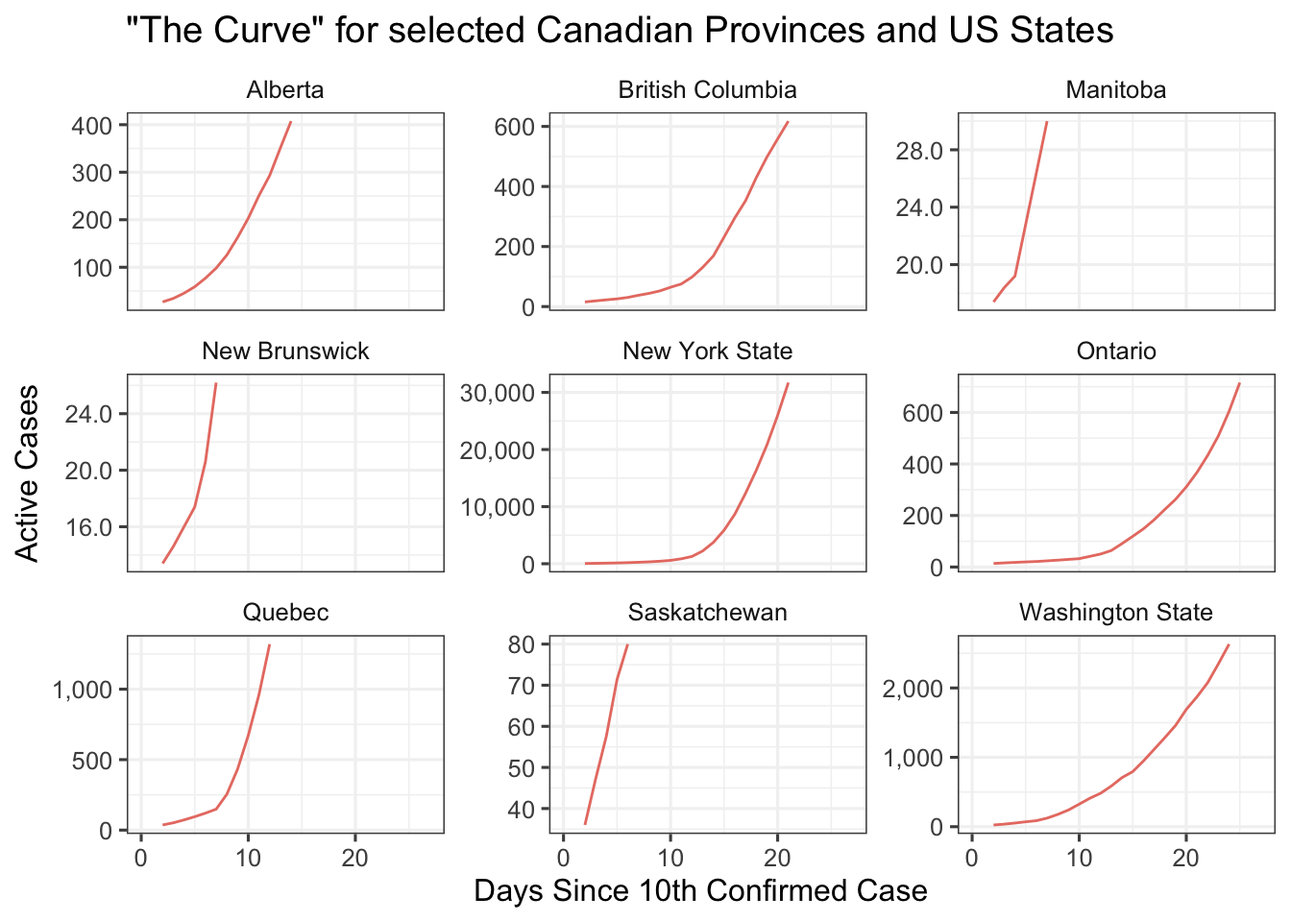
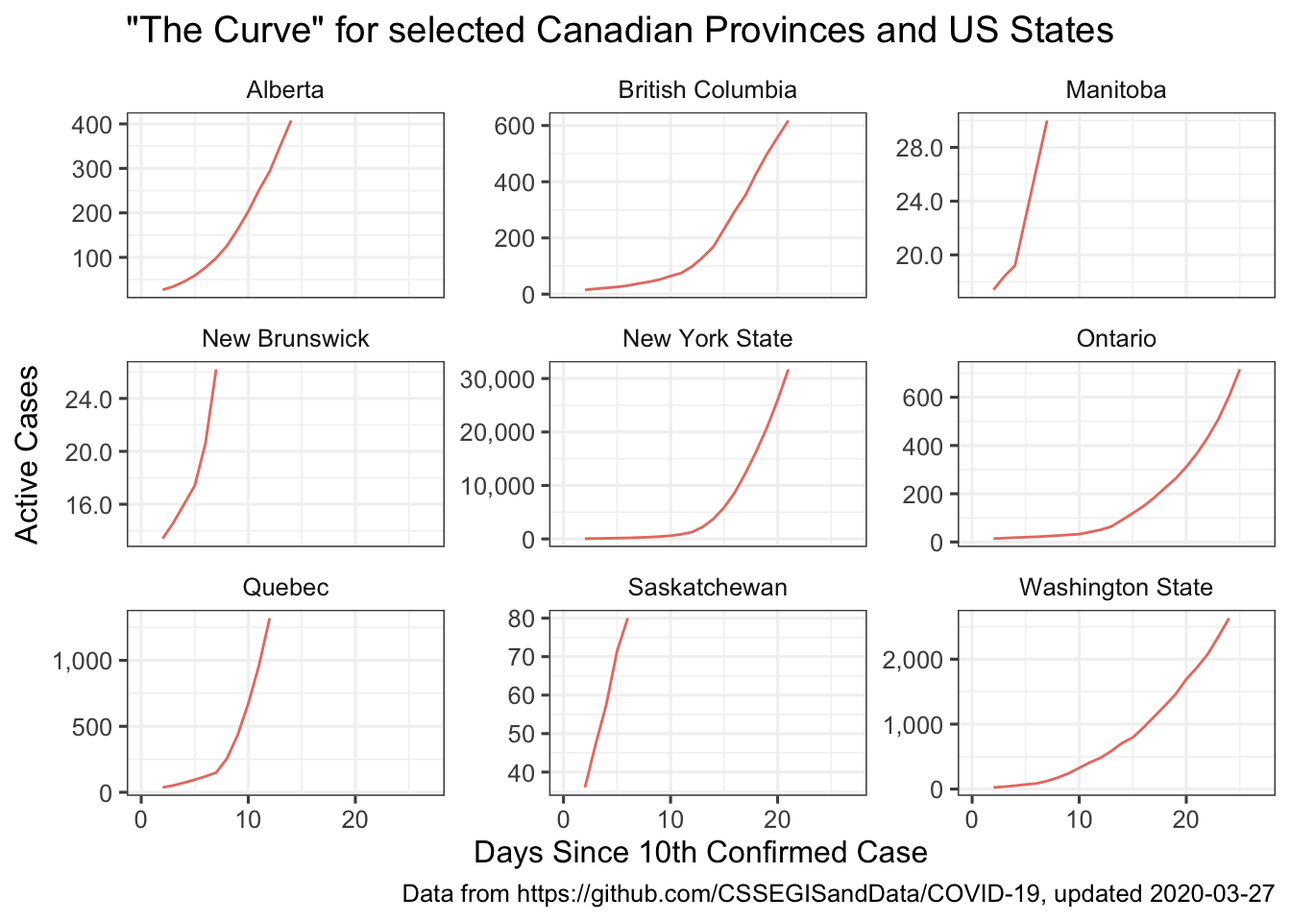
add captions to plots

diff --git a/static/post/2020-03-27-tracking-covid-19-in-canada_files/figure-html/widgets/widget_unnamed-chunk-8.html b/static/post/2020-03-27-tracking-covid-19-in-canada_files/figure-html/widgets/widget_unnamed-chunk-8.html
@@ -24,12 +24,12 @@
 </head>
 <body>
 <div id="htmlwidget_container">
-  <div id="htmlwidget-a81cc3dc8b0ffed4b9d1" style="width:100%;height:500px;" class="datatables html-widget"></div>
+  <div id="htmlwidget-800f1ae64680802ff295" style="width:100%;height:500px;" class="datatables html-widget"></div>
   <script>HTMLWidgets.pymChild = new pym.Child();HTMLWidgets.addPostRenderHandler(function(){
                                 setTimeout(function(){HTMLWidgets.pymChild.sendHeight();},100);
                             });</script>
 </div>
-<script type="application/json" data-for="htmlwidget-a81cc3dc8b0ffed4b9d1">{"x":{"filter":"none","extensions":["Buttons"],"data":[["1","2","3","4","5","6","7","8","9","10","11","12","13","14","15","16","17","18","19","20","21","22","23","24","25","26","27","28","29","30","31","32","33","34","35","36","37","38","39","40","41","42","43","44","45","46","47","48","49","50","51","52","53","54","55","56","57","58","59","60","61","62","63","64","65","66","67","68","69","70","71","72","73","74","75","76","77","78","79","80","81","82","83","84","85","86","87","88","89","90","91","92","93","94","95","96","97","98","99","100","101","102","103","104","105","106","107","108","109","110","111","112","113","114","115","116","117","118","119","120","121","122","123","124","125","126","127","128","129","130","131","132","133","134","135","136","137","138","139","140","141","142","143","144","145","146","147","148","149","150","151","152","153","154","155","156","157","158","159","160","161","162","163","164","165","166","167","168","169","170","171","172","173","174","175","176","177","178","179","180","181","182","183","184","185","186","187","188","189","190","191","192","193","194","195","196","197","198","199","200","201","202","203","204","205","206","207","208","209","210","211","212","213","214","215","216","217","218","219","220","221","222","223","224","225","226","227","228","229","230","231","232","233","234","235","236","237","238","239","240","241","242","243","244","245","246","247","248","249","250","251","252","253","254","255","256","257","258","259","260","261","262","263","264","265","266","267","268","269","270","271","272","273","274","275","276","277","278","279","280","281","282","283","284","285","286","287","288","289","290","291","292","293","294","295","296","297","298","299","300","301","302","303","304","305","306","307","308","309","310","311","312","313","314","315","316","317","318","319","320","321","322","323","324","325","326","327","328","329","330","331","332","333","334","335","336","337","338","339","340","341","342","343","344"],["2020-03-06","2020-03-07","2020-03-08","2020-03-09","2020-03-10","2020-03-11","2020-03-12","2020-03-13","2020-03-14","2020-03-15","2020-03-16","2020-03-17","2020-03-18","2020-03-19","2020-03-20","2020-03-21","2020-03-22","2020-03-23","2020-03-24","2020-03-25","2020-03-26","2020-03-27","2020-01-28","2020-01-29","2020-01-30","2020-01-31","2020-02-01","2020-02-02","2020-02-03","2020-02-04","2020-02-05","2020-02-06","2020-02-07","2020-02-08","2020-02-09","2020-02-10","2020-02-11","2020-02-12","2020-02-13","2020-02-14","2020-02-15","2020-02-16","2020-02-17","2020-02-18","2020-02-19","2020-02-20","2020-02-21","2020-02-22","2020-02-23","2020-02-24","2020-02-25","2020-02-26","2020-02-27","2020-02-28","2020-02-29","2020-03-01","2020-03-02","2020-03-03","2020-03-04","2020-03-05","2020-03-06","2020-03-07","2020-03-08","2020-03-09","2020-03-10","2020-03-11","2020-03-12","2020-03-13","2020-03-14","2020-03-15","2020-03-16","2020-03-17","2020-03-18","2020-03-19","2020-03-20","2020-03-21","2020-03-22","2020-03-23","2020-03-24","2020-03-25","2020-03-26","2020-03-27","2020-03-13","2020-03-14","2020-03-15","2020-03-16","2020-03-17","2020-03-18","2020-03-19","2020-03-20","2020-03-21","2020-03-22","2020-03-23","2020-03-24","2020-03-25","2020-03-26","2020-03-27","2020-03-11","2020-03-12","2020-03-13","2020-03-14","2020-03-15","2020-03-16","2020-03-17","2020-03-18","2020-03-19","2020-03-20","2020-03-21","2020-03-22","2020-03-23","2020-03-24","2020-03-25","2020-03-26","2020-03-27","2020-03-15","2020-03-16","2020-03-17","2020-03-18","2020-03-19","2020-03-20","2020-03-21","2020-03-22","2020-03-23","2020-03-24","2020-03-25","2020-03-26","2020-03-27","2020-03-21","2020-03-22","2020-03-26","2020-03-27","2020-01-26","2020-01-27","2020-01-28","2020-01-29","2020-01-30","2020-01-31","2020-02-01","2020-02-02","2020-02-03","2020-02-04","2020-02-05","2020-02-06","2020-02-07","2020-02-08","2020-02-09","2020-02-10","2020-02-11","2020-02-12","2020-02-13","2020-02-14","2020-02-15","2020-02-16","2020-02-17","2020-02-18","2020-02-19","2020-02-20","2020-02-21","2020-02-22","2020-02-23","2020-02-24","2020-02-25","2020-02-26","2020-02-27","2020-02-28","2020-02-29","2020-03-01","2020-03-02","2020-03-03","2020-03-04","2020-03-05","2020-03-06","2020-03-07","2020-03-08","2020-03-09","2020-03-10","2020-03-11","2020-03-12","2020-03-13","2020-03-14","2020-03-15","2020-03-16","2020-03-17","2020-03-18","2020-03-19","2020-03-20","2020-03-21","2020-03-22","2020-03-23","2020-03-24","2020-03-25","2020-03-26","2020-03-27","2020-03-15","2020-03-16","2020-03-17","2020-03-18","2020-03-19","2020-03-20","2020-03-21","2020-03-22","2020-03-23","2020-03-24","2020-03-25","2020-03-26","2020-03-27","2020-02-28","2020-02-29","2020-03-01","2020-03-02","2020-03-03","2020-03-04","2020-03-05","2020-03-06","2020-03-07","2020-03-08","2020-03-09","2020-03-10","2020-03-11","2020-03-12","2020-03-13","2020-03-14","2020-03-15","2020-03-16","2020-03-17","2020-03-18","2020-03-19","2020-03-20","2020-03-21","2020-03-22","2020-03-23","2020-03-24","2020-03-25","2020-03-26","2020-03-27","2020-03-13","2020-03-14","2020-03-15","2020-03-16","2020-03-17","2020-03-18","2020-03-19","2020-03-20","2020-03-21","2020-03-22","2020-03-23","2020-03-24","2020-03-25","2020-03-26","2020-03-27","2020-03-26","2020-03-27","2020-03-02","2020-03-03","2020-03-04","2020-03-05","2020-03-06","2020-03-07","2020-03-08","2020-03-09","2020-03-10","2020-03-11","2020-03-12","2020-03-13","2020-03-14","2020-03-15","2020-03-16","2020-03-17","2020-03-18","2020-03-19","2020-03-20","2020-03-21","2020-03-22","2020-03-23","2020-03-24","2020-03-25","2020-03-26","2020-03-27","2020-01-22","2020-01-23","2020-01-24","2020-01-25","2020-01-26","2020-01-27","2020-01-28","2020-01-29","2020-01-30","2020-01-31","2020-02-01","2020-02-02","2020-02-03","2020-02-04","2020-02-05","2020-02-06","2020-02-07","2020-02-08","2020-02-09","2020-02-10","2020-02-11","2020-02-12","2020-02-13","2020-02-14","2020-02-15","2020-02-16","2020-02-17","2020-02-18","2020-02-19","2020-02-20","2020-02-21","2020-02-22","2020-02-23","2020-02-24","2020-02-25","2020-02-26","2020-02-27","2020-02-28","2020-02-29","2020-03-01","2020-03-02","2020-03-03","2020-03-04","2020-03-05","2020-03-06","2020-03-07","2020-03-08","2020-03-09","2020-03-10","2020-03-11","2020-03-12","2020-03-13","2020-03-14","2020-03-15","2020-03-16","2020-03-17","2020-03-18","2020-03-19","2020-03-20","2020-03-21","2020-03-22","2020-03-23","2020-03-24","2020-03-25","2020-03-26","2020-03-27"],["Canada","Canada","Canada","Canada","Canada","Canada","Canada","Canada","Canada","Canada","Canada","Canada","Canada","Canada","Canada","Canada","Canada","Canada","Canada","Canada","Canada","Canada","Canada","Canada","Canada","Canada","Canada","Canada","Canada","Canada","Canada","Canada","Canada","Canada","Canada","Canada","Canada","Canada","Canada","Canada","Canada","Canada","Canada","Canada","Canada","Canada","Canada","Canada","Canada","Canada","Canada","Canada","Canada","Canada","Canada","Canada","Canada","Canada","Canada","Canada","Canada","Canada","Canada","Canada","Canada","Canada","Canada","Canada","Canada","Canada","Canada","Canada","Canada","Canada","Canada","Canada","Canada","Canada","Canada","Canada","Canada","Canada","Canada","Canada","Canada","Canada","Canada","Canada","Canada","Canada","Canada","Canada","Canada","Canada","Canada","Canada","Canada","Canada","Canada","Canada","Canada","Canada","Canada","Canada","Canada","Canada","Canada","Canada","Canada","Canada","Canada","Canada","Canada","Canada","Canada","Canada","Canada","Canada","Canada","Canada","Canada","Canada","Canada","Canada","Canada","Canada","Canada","Canada","Canada","Canada","Canada","Canada","Canada","Canada","Canada","Canada","Canada","Canada","Canada","Canada","Canada","Canada","Canada","Canada","Canada","Canada","Canada","Canada","Canada","Canada","Canada","Canada","Canada","Canada","Canada","Canada","Canada","Canada","Canada","Canada","Canada","Canada","Canada","Canada","Canada","Canada","Canada","Canada","Canada","Canada","Canada","Canada","Canada","Canada","Canada","Canada","Canada","Canada","Canada","Canada","Canada","Canada","Canada","Canada","Canada","Canada","Canada","Canada","Canada","Canada","Canada","Canada","Canada","Canada","Canada","Canada","Canada","Canada","Canada","Canada","Canada","Canada","Canada","Canada","Canada","Canada","Canada","Canada","Canada","Canada","Canada","Canada","Canada","Canada","Canada","Canada","Canada","Canada","Canada","Canada","Canada","Canada","Canada","Canada","Canada","Canada","Canada","Canada","Canada","Canada","Canada","Canada","Canada","Canada","Canada","Canada","Canada","Canada","Canada","Canada","Canada","Canada","Canada","Canada","Canada","Canada","Canada","Canada","Canada","Canada","Canada","Canada","US","US","US","US","US","US","US","US","US","US","US","US","US","US","US","US","US","US","US","US","US","US","US","US","US","US","US","US","US","US","US","US","US","US","US","US","US","US","US","US","US","US","US","US","US","US","US","US","US","US","US","US","US","US","US","US","US","US","US","US","US","US","US","US","US","US","US","US","US","US","US","US","US","US","US","US","US","US","US","US","US","US","US","US","US","US","US","US","US","US","US","US"],["Alberta","Alberta","Alberta","Alberta","Alberta","Alberta","Alberta","Alberta","Alberta","Alberta","Alberta","Alberta","Alberta","Alberta","Alberta","Alberta","Alberta","Alberta","Alberta","Alberta","Alberta","Alberta","British Columbia","British Columbia","British Columbia","British Columbia","British Columbia","British Columbia","British Columbia","British Columbia","British Columbia","British Columbia","British Columbia","British Columbia","British Columbia","British Columbia","British Columbia","British Columbia","British Columbia","British Columbia","British Columbia","British Columbia","British Columbia","British Columbia","British Columbia","British Columbia","British Columbia","British Columbia","British Columbia","British Columbia","British Columbia","British Columbia","British Columbia","British Columbia","British Columbia","British Columbia","British Columbia","British Columbia","British Columbia","British Columbia","British Columbia","British Columbia","British Columbia","British Columbia","British Columbia","British Columbia","British Columbia","British Columbia","British Columbia","British Columbia","British Columbia","British Columbia","British Columbia","British Columbia","British Columbia","British Columbia","British Columbia","British Columbia","British Columbia","British Columbia","British Columbia","British Columbia","Manitoba","Manitoba","Manitoba","Manitoba","Manitoba","Manitoba","Manitoba","Manitoba","Manitoba","Manitoba","Manitoba","Manitoba","Manitoba","Manitoba","Manitoba","New Brunswick","New Brunswick","New Brunswick","New Brunswick","New Brunswick","New Brunswick","New Brunswick","New Brunswick","New Brunswick","New Brunswick","New Brunswick","New Brunswick","New Brunswick","New Brunswick","New Brunswick","New Brunswick","New Brunswick","Newfoundland","Newfoundland","Newfoundland","Newfoundland","Newfoundland","Newfoundland","Newfoundland","Newfoundland","Newfoundland","Newfoundland","Newfoundland","Newfoundland","Newfoundland","Northwest Territories","Northwest Territories","Northwest Territories","Northwest Territories","Ontario","Ontario","Ontario","Ontario","Ontario","Ontario","Ontario","Ontario","Ontario","Ontario","Ontario","Ontario","Ontario","Ontario","Ontario","Ontario","Ontario","Ontario","Ontario","Ontario","Ontario","Ontario","Ontario","Ontario","Ontario","Ontario","Ontario","Ontario","Ontario","Ontario","Ontario","Ontario","Ontario","Ontario","Ontario","Ontario","Ontario","Ontario","Ontario","Ontario","Ontario","Ontario","Ontario","Ontario","Ontario","Ontario","Ontario","Ontario","Ontario","Ontario","Ontario","Ontario","Ontario","Ontario","Ontario","Ontario","Ontario","Ontario","Ontario","Ontario","Ontario","Ontario","Prince Edward Island","Prince Edward Island","Prince Edward Island","Prince Edward Island","Prince Edward Island","Prince Edward Island","Prince Edward Island","Prince Edward Island","Prince Edward Island","Prince Edward Island","Prince Edward Island","Prince Edward Island","Prince Edward Island","Quebec","Quebec","Quebec","Quebec","Quebec","Quebec","Quebec","Quebec","Quebec","Quebec","Quebec","Quebec","Quebec","Quebec","Quebec","Quebec","Quebec","Quebec","Quebec","Quebec","Quebec","Quebec","Quebec","Quebec","Quebec","Quebec","Quebec","Quebec","Quebec","Saskatchewan","Saskatchewan","Saskatchewan","Saskatchewan","Saskatchewan","Saskatchewan","Saskatchewan","Saskatchewan","Saskatchewan","Saskatchewan","Saskatchewan","Saskatchewan","Saskatchewan","Saskatchewan","Saskatchewan","Yukon","Yukon","New York State","New York State","New York State","New York State","New York State","New York State","New York State","New York State","New York State","New York State","New York State","New York State","New York State","New York State","New York State","New York State","New York State","New York State","New York State","New York State","New York State","New York State","New York State","New York State","New York State","New York State","Washington State","Washington State","Washington State","Washington State","Washington State","Washington State","Washington State","Washington State","Washington State","Washington State","Washington State","Washington State","Washington State","Washington State","Washington State","Washington State","Washington State","Washington State","Washington State","Washington State","Washington State","Washington State","Washington State","Washington State","Washington State","Washington State","Washington State","Washington State","Washington State","Washington State","Washington State","Washington State","Washington State","Washington State","Washington State","Washington State","Washington State","Washington State","Washington State","Washington State","Washington State","Washington State","Washington State","Washington State","Washington State","Washington State","Washington State","Washington State","Washington State","Washington State","Washington State","Washington State","Washington State","Washington State","Washington State","Washington State","Washington State","Washington State","Washington State","Washington State","Washington State","Washington State","Washington State","Washington State","Washington State","Washington State"],[null,null,null,null,null,0,1,2,3,4,5,6,7,8,9,10,11,12,13,14,15,16,null,null,null,null,null,null,null,null,null,null,null,null,null,null,null,null,null,null,null,null,null,null,null,null,null,null,null,null,null,null,null,null,null,null,null,null,0,1,2,3,4,5,6,7,8,9,10,11,12,13,14,15,16,17,18,19,20,21,22,23,null,null,null,null,null,0,1,2,3,4,5,6,7,8,9,null,null,null,null,null,null,null,0,1,2,3,4,5,6,7,8,9,null,null,null,null,null,null,null,null,0,1,2,3,4,null,null,null,null,null,null,null,null,null,null,null,null,null,null,null,null,null,null,null,null,null,null,null,null,null,null,null,null,null,null,null,null,null,null,null,null,null,null,0,1,2,3,4,5,6,7,8,9,10,11,12,13,14,15,16,17,18,19,20,21,22,23,24,25,26,27,null,null,null,null,null,null,null,null,null,null,null,null,null,null,null,null,null,null,null,null,null,null,null,null,null,null,null,0,1,2,3,4,5,6,7,8,9,10,11,12,13,14,null,null,null,null,null,null,0,1,2,3,4,5,6,7,8,null,null,null,null,0,1,2,3,4,5,6,7,8,9,10,11,12,13,14,15,16,17,18,19,20,21,22,23,null,null,null,null,null,null,null,null,null,null,null,null,null,null,null,null,null,null,null,null,null,null,null,null,null,null,null,null,null,null,null,null,null,null,null,null,null,null,null,0,1,2,3,4,5,6,7,8,9,10,11,12,13,14,15,16,17,18,19,20,21,22,23,24,25,26],[1,2,4,7,7,19,19,29,29,39,56,74,97,119,146,195,259,301,359,358,486,542,1,1,1,1,1,1,1,1,2,2,4,4,4,4,4,4,4,4,4,4,5,5,5,5,6,6,6,6,7,7,7,7,8,8,8,9,12,13,21,21,27,32,32,39,46,64,64,73,103,103,186,231,271,424,424,472,617,617,725,725,4,4,4,7,8,15,17,17,18,20,20,21,35,36,39,1,1,1,1,2,6,8,11,11,11,17,17,17,18,18,33,45,1,1,3,3,3,4,6,9,24,35,35,82,102,1,1,1,1,1,1,1,1,2,2,3,3,3,3,3,3,3,3,3,3,3,3,3,3,3,3,3,3,3,3,3,3,3,4,4,4,6,6,11,15,18,20,20,22,25,28,29,34,36,41,42,74,79,104,177,185,221,257,308,377,425,503,588,688,858,994,1,1,1,1,2,2,2,3,3,3,5,5,9,1,1,1,1,1,1,2,2,3,4,3,4,8,9,17,17,24,50,74,94,121,139,181,219,628,1013,1342,1632,2024,2,2,2,7,7,8,16,20,26,52,66,72,72,95,95,3,3,1,2,11,23,36,76,106,142,173,220,328,421,525,732,967,1706,2495,5365,8310,11710,15800,20884,25681,30841,37877,44876,1,1,1,1,1,1,1,1,1,1,1,1,1,1,1,1,1,1,1,1,1,1,1,1,1,1,1,1,1,1,1,1,1,1,1,1,1,1,7,11,18,27,39,70,83,107,128,128,267,366,442,568,572,643,904,1076,1014,1376,1524,1793,1997,2221,2328,2591,3207,3477],[0,0,0,0,0,0,0,0,0,0,0,0,0,0,1,1,1,1,1,2,2,2,null,null,null,null,0,0,0,0,0,0,0,0,0,0,0,0,0,0,0,0,0,0,0,0,0,0,0,0,0,0,0,0,0,0,0,0,0,0,0,0,0,1,1,1,1,1,1,1,4,4,7,7,8,10,10,13,13,13,14,14,0,0,0,0,0,0,0,0,0,0,0,0,0,0,1,0,0,0,0,0,0,0,0,0,0,0,0,0,0,0,0,0,0,0,0,0,0,0,0,0,0,0,0,0,0,0,0,0,0,null,null,null,null,null,null,0,0,0,0,0,0,0,0,0,0,0,0,0,0,0,0,0,0,0,0,0,0,0,0,0,0,0,0,0,0,0,0,0,0,0,0,0,0,0,0,0,0,0,0,0,1,1,1,2,3,5,6,7,8,13,18,0,0,0,0,0,0,0,0,0,0,0,0,0,0,0,0,0,0,0,0,0,0,0,0,0,0,0,0,0,0,0,0,0,1,1,5,4,4,4,6,8,18,0,0,0,0,0,0,0,0,0,0,0,0,0,0,0,0,0,0,0,0,0,0,0,0,0,0,0,0,0,2,3,10,13,16,34,42,60,117,158,210,285,385,527,null,null,null,null,null,null,null,null,null,null,0,0,0,0,0,0,0,0,0,0,0,0,0,0,0,0,0,0,0,0,0,0,0,0,0,0,0,0,1,1,6,7,10,11,13,16,18,19,23,29,31,37,37,40,48,55,55,74,83,94,97,109,116,133,150,157]],"container":"<table class=\"display\">\n  <thead>\n    <tr>\n      <th> <\/th>\n      <th>date<\/th>\n      <th>country<\/th>\n      <th>province<\/th>\n      <th>days_since_10_cases<\/th>\n      <th>confirmed<\/th>\n      <th>deaths<\/th>\n    <\/tr>\n  <\/thead>\n<\/table>","options":{"dom":"Bfrtip","buttons":["copy",{"extend":"collection","buttons":["csv","excel"],"text":"Download"}],"columnDefs":[{"className":"dt-right","targets":[4,5,6]},{"orderable":false,"targets":0}],"order":[],"autoWidth":false,"orderClasses":false}},"evals":[],"jsHooks":[]}</script>
-<script type="application/htmlwidget-sizing" data-for="htmlwidget-a81cc3dc8b0ffed4b9d1">{"viewer":{"width":"100%","height":350,"padding":0,"fill":false},"browser":{"width":"100%","height":500,"padding":0,"fill":false}}</script>
+<script type="application/json" data-for="htmlwidget-800f1ae64680802ff295">{"x":{"filter":"none","extensions":["Buttons"],"data":[["1","2","3","4","5","6","7","8","9","10","11","12","13","14","15","16","17","18","19","20","21","22","23","24","25","26","27","28","29","30","31","32","33","34","35","36","37","38","39","40","41","42","43","44","45","46","47","48","49","50","51","52","53","54","55","56","57","58","59","60","61","62","63","64","65","66","67","68","69","70","71","72","73","74","75","76","77","78","79","80","81","82","83","84","85","86","87","88","89","90","91","92","93","94","95","96","97","98","99","100","101","102","103","104","105","106","107","108","109","110","111","112","113","114","115","116","117","118","119","120","121","122","123","124","125","126","127","128","129","130","131","132","133","134","135","136","137","138","139","140","141","142","143","144","145","146","147","148","149","150","151","152","153","154","155","156","157","158","159","160","161","162","163","164","165","166","167","168","169","170","171","172","173","174","175","176","177","178","179","180","181","182","183","184","185","186","187","188","189","190","191","192","193","194","195","196","197","198","199","200","201","202","203","204","205","206","207","208","209","210","211","212","213","214","215","216","217","218","219","220","221","222","223","224","225","226","227","228","229","230","231","232","233","234","235","236","237","238","239","240","241","242","243","244","245","246","247","248","249","250","251","252","253","254","255","256","257","258","259","260","261","262","263","264","265","266","267","268","269","270","271","272","273","274","275","276","277","278","279","280","281","282","283","284","285","286","287","288","289","290","291","292","293","294","295","296","297","298","299","300","301","302","303","304","305","306","307","308","309","310","311","312","313","314","315","316","317","318","319","320","321","322","323","324","325","326","327","328","329","330","331","332","333","334","335","336","337","338","339","340","341","342","343","344"],["2020-03-06","2020-03-07","2020-03-08","2020-03-09","2020-03-10","2020-03-11","2020-03-12","2020-03-13","2020-03-14","2020-03-15","2020-03-16","2020-03-17","2020-03-18","2020-03-19","2020-03-20","2020-03-21","2020-03-22","2020-03-23","2020-03-24","2020-03-25","2020-03-26","2020-03-27","2020-01-28","2020-01-29","2020-01-30","2020-01-31","2020-02-01","2020-02-02","2020-02-03","2020-02-04","2020-02-05","2020-02-06","2020-02-07","2020-02-08","2020-02-09","2020-02-10","2020-02-11","2020-02-12","2020-02-13","2020-02-14","2020-02-15","2020-02-16","2020-02-17","2020-02-18","2020-02-19","2020-02-20","2020-02-21","2020-02-22","2020-02-23","2020-02-24","2020-02-25","2020-02-26","2020-02-27","2020-02-28","2020-02-29","2020-03-01","2020-03-02","2020-03-03","2020-03-04","2020-03-05","2020-03-06","2020-03-07","2020-03-08","2020-03-09","2020-03-10","2020-03-11","2020-03-12","2020-03-13","2020-03-14","2020-03-15","2020-03-16","2020-03-17","2020-03-18","2020-03-19","2020-03-20","2020-03-21","2020-03-22","2020-03-23","2020-03-24","2020-03-25","2020-03-26","2020-03-27","2020-03-13","2020-03-14","2020-03-15","2020-03-16","2020-03-17","2020-03-18","2020-03-19","2020-03-20","2020-03-21","2020-03-22","2020-03-23","2020-03-24","2020-03-25","2020-03-26","2020-03-27","2020-03-11","2020-03-12","2020-03-13","2020-03-14","2020-03-15","2020-03-16","2020-03-17","2020-03-18","2020-03-19","2020-03-20","2020-03-21","2020-03-22","2020-03-23","2020-03-24","2020-03-25","2020-03-26","2020-03-27","2020-03-15","2020-03-16","2020-03-17","2020-03-18","2020-03-19","2020-03-20","2020-03-21","2020-03-22","2020-03-23","2020-03-24","2020-03-25","2020-03-26","2020-03-27","2020-03-21","2020-03-22","2020-03-26","2020-03-27","2020-01-26","2020-01-27","2020-01-28","2020-01-29","2020-01-30","2020-01-31","2020-02-01","2020-02-02","2020-02-03","2020-02-04","2020-02-05","2020-02-06","2020-02-07","2020-02-08","2020-02-09","2020-02-10","2020-02-11","2020-02-12","2020-02-13","2020-02-14","2020-02-15","2020-02-16","2020-02-17","2020-02-18","2020-02-19","2020-02-20","2020-02-21","2020-02-22","2020-02-23","2020-02-24","2020-02-25","2020-02-26","2020-02-27","2020-02-28","2020-02-29","2020-03-01","2020-03-02","2020-03-03","2020-03-04","2020-03-05","2020-03-06","2020-03-07","2020-03-08","2020-03-09","2020-03-10","2020-03-11","2020-03-12","2020-03-13","2020-03-14","2020-03-15","2020-03-16","2020-03-17","2020-03-18","2020-03-19","2020-03-20","2020-03-21","2020-03-22","2020-03-23","2020-03-24","2020-03-25","2020-03-26","2020-03-27","2020-03-15","2020-03-16","2020-03-17","2020-03-18","2020-03-19","2020-03-20","2020-03-21","2020-03-22","2020-03-23","2020-03-24","2020-03-25","2020-03-26","2020-03-27","2020-02-28","2020-02-29","2020-03-01","2020-03-02","2020-03-03","2020-03-04","2020-03-05","2020-03-06","2020-03-07","2020-03-08","2020-03-09","2020-03-10","2020-03-11","2020-03-12","2020-03-13","2020-03-14","2020-03-15","2020-03-16","2020-03-17","2020-03-18","2020-03-19","2020-03-20","2020-03-21","2020-03-22","2020-03-23","2020-03-24","2020-03-25","2020-03-26","2020-03-27","2020-03-13","2020-03-14","2020-03-15","2020-03-16","2020-03-17","2020-03-18","2020-03-19","2020-03-20","2020-03-21","2020-03-22","2020-03-23","2020-03-24","2020-03-25","2020-03-26","2020-03-27","2020-03-26","2020-03-27","2020-03-02","2020-03-03","2020-03-04","2020-03-05","2020-03-06","2020-03-07","2020-03-08","2020-03-09","2020-03-10","2020-03-11","2020-03-12","2020-03-13","2020-03-14","2020-03-15","2020-03-16","2020-03-17","2020-03-18","2020-03-19","2020-03-20","2020-03-21","2020-03-22","2020-03-23","2020-03-24","2020-03-25","2020-03-26","2020-03-27","2020-01-22","2020-01-23","2020-01-24","2020-01-25","2020-01-26","2020-01-27","2020-01-28","2020-01-29","2020-01-30","2020-01-31","2020-02-01","2020-02-02","2020-02-03","2020-02-04","2020-02-05","2020-02-06","2020-02-07","2020-02-08","2020-02-09","2020-02-10","2020-02-11","2020-02-12","2020-02-13","2020-02-14","2020-02-15","2020-02-16","2020-02-17","2020-02-18","2020-02-19","2020-02-20","2020-02-21","2020-02-22","2020-02-23","2020-02-24","2020-02-25","2020-02-26","2020-02-27","2020-02-28","2020-02-29","2020-03-01","2020-03-02","2020-03-03","2020-03-04","2020-03-05","2020-03-06","2020-03-07","2020-03-08","2020-03-09","2020-03-10","2020-03-11","2020-03-12","2020-03-13","2020-03-14","2020-03-15","2020-03-16","2020-03-17","2020-03-18","2020-03-19","2020-03-20","2020-03-21","2020-03-22","2020-03-23","2020-03-24","2020-03-25","2020-03-26","2020-03-27"],["Canada","Canada","Canada","Canada","Canada","Canada","Canada","Canada","Canada","Canada","Canada","Canada","Canada","Canada","Canada","Canada","Canada","Canada","Canada","Canada","Canada","Canada","Canada","Canada","Canada","Canada","Canada","Canada","Canada","Canada","Canada","Canada","Canada","Canada","Canada","Canada","Canada","Canada","Canada","Canada","Canada","Canada","Canada","Canada","Canada","Canada","Canada","Canada","Canada","Canada","Canada","Canada","Canada","Canada","Canada","Canada","Canada","Canada","Canada","Canada","Canada","Canada","Canada","Canada","Canada","Canada","Canada","Canada","Canada","Canada","Canada","Canada","Canada","Canada","Canada","Canada","Canada","Canada","Canada","Canada","Canada","Canada","Canada","Canada","Canada","Canada","Canada","Canada","Canada","Canada","Canada","Canada","Canada","Canada","Canada","Canada","Canada","Canada","Canada","Canada","Canada","Canada","Canada","Canada","Canada","Canada","Canada","Canada","Canada","Canada","Canada","Canada","Canada","Canada","Canada","Canada","Canada","Canada","Canada","Canada","Canada","Canada","Canada","Canada","Canada","Canada","Canada","Canada","Canada","Canada","Canada","Canada","Canada","Canada","Canada","Canada","Canada","Canada","Canada","Canada","Canada","Canada","Canada","Canada","Canada","Canada","Canada","Canada","Canada","Canada","Canada","Canada","Canada","Canada","Canada","Canada","Canada","Canada","Canada","Canada","Canada","Canada","Canada","Canada","Canada","Canada","Canada","Canada","Canada","Canada","Canada","Canada","Canada","Canada","Canada","Canada","Canada","Canada","Canada","Canada","Canada","Canada","Canada","Canada","Canada","Canada","Canada","Canada","Canada","Canada","Canada","Canada","Canada","Canada","Canada","Canada","Canada","Canada","Canada","Canada","Canada","Canada","Canada","Canada","Canada","Canada","Canada","Canada","Canada","Canada","Canada","Canada","Canada","Canada","Canada","Canada","Canada","Canada","Canada","Canada","Canada","Canada","Canada","Canada","Canada","Canada","Canada","Canada","Canada","Canada","Canada","Canada","Canada","Canada","Canada","Canada","Canada","Canada","Canada","Canada","Canada","Canada","Canada","Canada","Canada","Canada","Canada","Canada","Canada","Canada","Canada","Canada","US","US","US","US","US","US","US","US","US","US","US","US","US","US","US","US","US","US","US","US","US","US","US","US","US","US","US","US","US","US","US","US","US","US","US","US","US","US","US","US","US","US","US","US","US","US","US","US","US","US","US","US","US","US","US","US","US","US","US","US","US","US","US","US","US","US","US","US","US","US","US","US","US","US","US","US","US","US","US","US","US","US","US","US","US","US","US","US","US","US","US","US"],["Alberta","Alberta","Alberta","Alberta","Alberta","Alberta","Alberta","Alberta","Alberta","Alberta","Alberta","Alberta","Alberta","Alberta","Alberta","Alberta","Alberta","Alberta","Alberta","Alberta","Alberta","Alberta","British Columbia","British Columbia","British Columbia","British Columbia","British Columbia","British Columbia","British Columbia","British Columbia","British Columbia","British Columbia","British Columbia","British Columbia","British Columbia","British Columbia","British Columbia","British Columbia","British Columbia","British Columbia","British Columbia","British Columbia","British Columbia","British Columbia","British Columbia","British Columbia","British Columbia","British Columbia","British Columbia","British Columbia","British Columbia","British Columbia","British Columbia","British Columbia","British Columbia","British Columbia","British Columbia","British Columbia","British Columbia","British Columbia","British Columbia","British Columbia","British Columbia","British Columbia","British Columbia","British Columbia","British Columbia","British Columbia","British Columbia","British Columbia","British Columbia","British Columbia","British Columbia","British Columbia","British Columbia","British Columbia","British Columbia","British Columbia","British Columbia","British Columbia","British Columbia","British Columbia","Manitoba","Manitoba","Manitoba","Manitoba","Manitoba","Manitoba","Manitoba","Manitoba","Manitoba","Manitoba","Manitoba","Manitoba","Manitoba","Manitoba","Manitoba","New Brunswick","New Brunswick","New Brunswick","New Brunswick","New Brunswick","New Brunswick","New Brunswick","New Brunswick","New Brunswick","New Brunswick","New Brunswick","New Brunswick","New Brunswick","New Brunswick","New Brunswick","New Brunswick","New Brunswick","Newfoundland","Newfoundland","Newfoundland","Newfoundland","Newfoundland","Newfoundland","Newfoundland","Newfoundland","Newfoundland","Newfoundland","Newfoundland","Newfoundland","Newfoundland","Northwest Territories","Northwest Territories","Northwest Territories","Northwest Territories","Ontario","Ontario","Ontario","Ontario","Ontario","Ontario","Ontario","Ontario","Ontario","Ontario","Ontario","Ontario","Ontario","Ontario","Ontario","Ontario","Ontario","Ontario","Ontario","Ontario","Ontario","Ontario","Ontario","Ontario","Ontario","Ontario","Ontario","Ontario","Ontario","Ontario","Ontario","Ontario","Ontario","Ontario","Ontario","Ontario","Ontario","Ontario","Ontario","Ontario","Ontario","Ontario","Ontario","Ontario","Ontario","Ontario","Ontario","Ontario","Ontario","Ontario","Ontario","Ontario","Ontario","Ontario","Ontario","Ontario","Ontario","Ontario","Ontario","Ontario","Ontario","Ontario","Prince Edward Island","Prince Edward Island","Prince Edward Island","Prince Edward Island","Prince Edward Island","Prince Edward Island","Prince Edward Island","Prince Edward Island","Prince Edward Island","Prince Edward Island","Prince Edward Island","Prince Edward Island","Prince Edward Island","Quebec","Quebec","Quebec","Quebec","Quebec","Quebec","Quebec","Quebec","Quebec","Quebec","Quebec","Quebec","Quebec","Quebec","Quebec","Quebec","Quebec","Quebec","Quebec","Quebec","Quebec","Quebec","Quebec","Quebec","Quebec","Quebec","Quebec","Quebec","Quebec","Saskatchewan","Saskatchewan","Saskatchewan","Saskatchewan","Saskatchewan","Saskatchewan","Saskatchewan","Saskatchewan","Saskatchewan","Saskatchewan","Saskatchewan","Saskatchewan","Saskatchewan","Saskatchewan","Saskatchewan","Yukon","Yukon","New York State","New York State","New York State","New York State","New York State","New York State","New York State","New York State","New York State","New York State","New York State","New York State","New York State","New York State","New York State","New York State","New York State","New York State","New York State","New York State","New York State","New York State","New York State","New York State","New York State","New York State","Washington State","Washington State","Washington State","Washington State","Washington State","Washington State","Washington State","Washington State","Washington State","Washington State","Washington State","Washington State","Washington State","Washington State","Washington State","Washington State","Washington State","Washington State","Washington State","Washington State","Washington State","Washington State","Washington State","Washington State","Washington State","Washington State","Washington State","Washington State","Washington State","Washington State","Washington State","Washington State","Washington State","Washington State","Washington State","Washington State","Washington State","Washington State","Washington State","Washington State","Washington State","Washington State","Washington State","Washington State","Washington State","Washington State","Washington State","Washington State","Washington State","Washington State","Washington State","Washington State","Washington State","Washington State","Washington State","Washington State","Washington State","Washington State","Washington State","Washington State","Washington State","Washington State","Washington State","Washington State","Washington State","Washington State"],[null,null,null,null,null,0,1,2,3,4,5,6,7,8,9,10,11,12,13,14,15,16,null,null,null,null,null,null,null,null,null,null,null,null,null,null,null,null,null,null,null,null,null,null,null,null,null,null,null,null,null,null,null,null,null,null,null,null,0,1,2,3,4,5,6,7,8,9,10,11,12,13,14,15,16,17,18,19,20,21,22,23,null,null,null,null,null,0,1,2,3,4,5,6,7,8,9,null,null,null,null,null,null,null,0,1,2,3,4,5,6,7,8,9,null,null,null,null,null,null,null,null,0,1,2,3,4,null,null,null,null,null,null,null,null,null,null,null,null,null,null,null,null,null,null,null,null,null,null,null,null,null,null,null,null,null,null,null,null,null,null,null,null,null,null,0,1,2,3,4,5,6,7,8,9,10,11,12,13,14,15,16,17,18,19,20,21,22,23,24,25,26,27,null,null,null,null,null,null,null,null,null,null,null,null,null,null,null,null,null,null,null,null,null,null,null,null,null,null,null,0,1,2,3,4,5,6,7,8,9,10,11,12,13,14,null,null,null,null,null,null,0,1,2,3,4,5,6,7,8,null,null,null,null,0,1,2,3,4,5,6,7,8,9,10,11,12,13,14,15,16,17,18,19,20,21,22,23,null,null,null,null,null,null,null,null,null,null,null,null,null,null,null,null,null,null,null,null,null,null,null,null,null,null,null,null,null,null,null,null,null,null,null,null,null,null,null,0,1,2,3,4,5,6,7,8,9,10,11,12,13,14,15,16,17,18,19,20,21,22,23,24,25,26],[1,2,4,7,7,19,19,29,29,39,56,74,97,119,146,195,259,301,359,358,486,542,1,1,1,1,1,1,1,1,2,2,4,4,4,4,4,4,4,4,4,4,5,5,5,5,6,6,6,6,7,7,7,7,8,8,8,9,12,13,21,21,27,32,32,39,46,64,64,73,103,103,186,231,271,424,424,472,617,617,725,725,4,4,4,7,8,15,17,17,18,20,20,21,35,36,39,1,1,1,1,2,6,8,11,11,11,17,17,17,18,18,33,45,1,1,3,3,3,4,6,9,24,35,35,82,102,1,1,1,1,1,1,1,1,2,2,3,3,3,3,3,3,3,3,3,3,3,3,3,3,3,3,3,3,3,3,3,3,3,4,4,4,6,6,11,15,18,20,20,22,25,28,29,34,36,41,42,74,79,104,177,185,221,257,308,377,425,503,588,688,858,994,1,1,1,1,2,2,2,3,3,3,5,5,9,1,1,1,1,1,1,2,2,3,4,3,4,8,9,17,17,24,50,74,94,121,139,181,219,628,1013,1342,1632,2024,2,2,2,7,7,8,16,20,26,52,66,72,72,95,95,3,3,1,2,11,23,36,76,106,142,173,220,328,421,525,732,967,1706,2495,5365,8310,11710,15800,20884,25681,30841,37877,44876,1,1,1,1,1,1,1,1,1,1,1,1,1,1,1,1,1,1,1,1,1,1,1,1,1,1,1,1,1,1,1,1,1,1,1,1,1,1,7,11,18,27,39,70,83,107,128,128,267,366,442,568,572,643,904,1076,1014,1376,1524,1793,1997,2221,2328,2591,3207,3477],[0,0,0,0,0,0,0,0,0,0,0,0,0,0,1,1,1,1,1,2,2,2,null,null,null,null,0,0,0,0,0,0,0,0,0,0,0,0,0,0,0,0,0,0,0,0,0,0,0,0,0,0,0,0,0,0,0,0,0,0,0,0,0,1,1,1,1,1,1,1,4,4,7,7,8,10,10,13,13,13,14,14,0,0,0,0,0,0,0,0,0,0,0,0,0,0,1,0,0,0,0,0,0,0,0,0,0,0,0,0,0,0,0,0,0,0,0,0,0,0,0,0,0,0,0,0,0,0,0,0,0,null,null,null,null,null,null,0,0,0,0,0,0,0,0,0,0,0,0,0,0,0,0,0,0,0,0,0,0,0,0,0,0,0,0,0,0,0,0,0,0,0,0,0,0,0,0,0,0,0,0,0,1,1,1,2,3,5,6,7,8,13,18,0,0,0,0,0,0,0,0,0,0,0,0,0,0,0,0,0,0,0,0,0,0,0,0,0,0,0,0,0,0,0,0,0,1,1,5,4,4,4,6,8,18,0,0,0,0,0,0,0,0,0,0,0,0,0,0,0,0,0,0,0,0,0,0,0,0,0,0,0,0,0,2,3,10,13,16,34,42,60,117,158,210,285,385,527,null,null,null,null,null,null,null,null,null,null,0,0,0,0,0,0,0,0,0,0,0,0,0,0,0,0,0,0,0,0,0,0,0,0,0,0,0,0,1,1,6,7,10,11,13,16,18,19,23,29,31,37,37,40,48,55,55,74,83,94,97,109,116,133,150,157]],"container":"<table class=\"display\">\n  <thead>\n    <tr>\n      <th> <\/th>\n      <th>date<\/th>\n      <th>country<\/th>\n      <th>province<\/th>\n      <th>days_since_10_cases<\/th>\n      <th>confirmed<\/th>\n      <th>deaths<\/th>\n    <\/tr>\n  <\/thead>\n<\/table>","options":{"dom":"Bfrtip","buttons":["copy",{"extend":"collection","buttons":["csv","excel"],"text":"Download"}],"columnDefs":[{"className":"dt-right","targets":[4,5,6]},{"orderable":false,"targets":0}],"order":[],"autoWidth":false,"orderClasses":false}},"evals":[],"jsHooks":[]}</script>
+<script type="application/htmlwidget-sizing" data-for="htmlwidget-800f1ae64680802ff295">{"viewer":{"width":"100%","height":350,"padding":0,"fill":false},"browser":{"width":"100%","height":500,"padding":0,"fill":false}}</script>
 </body>
 </html>
